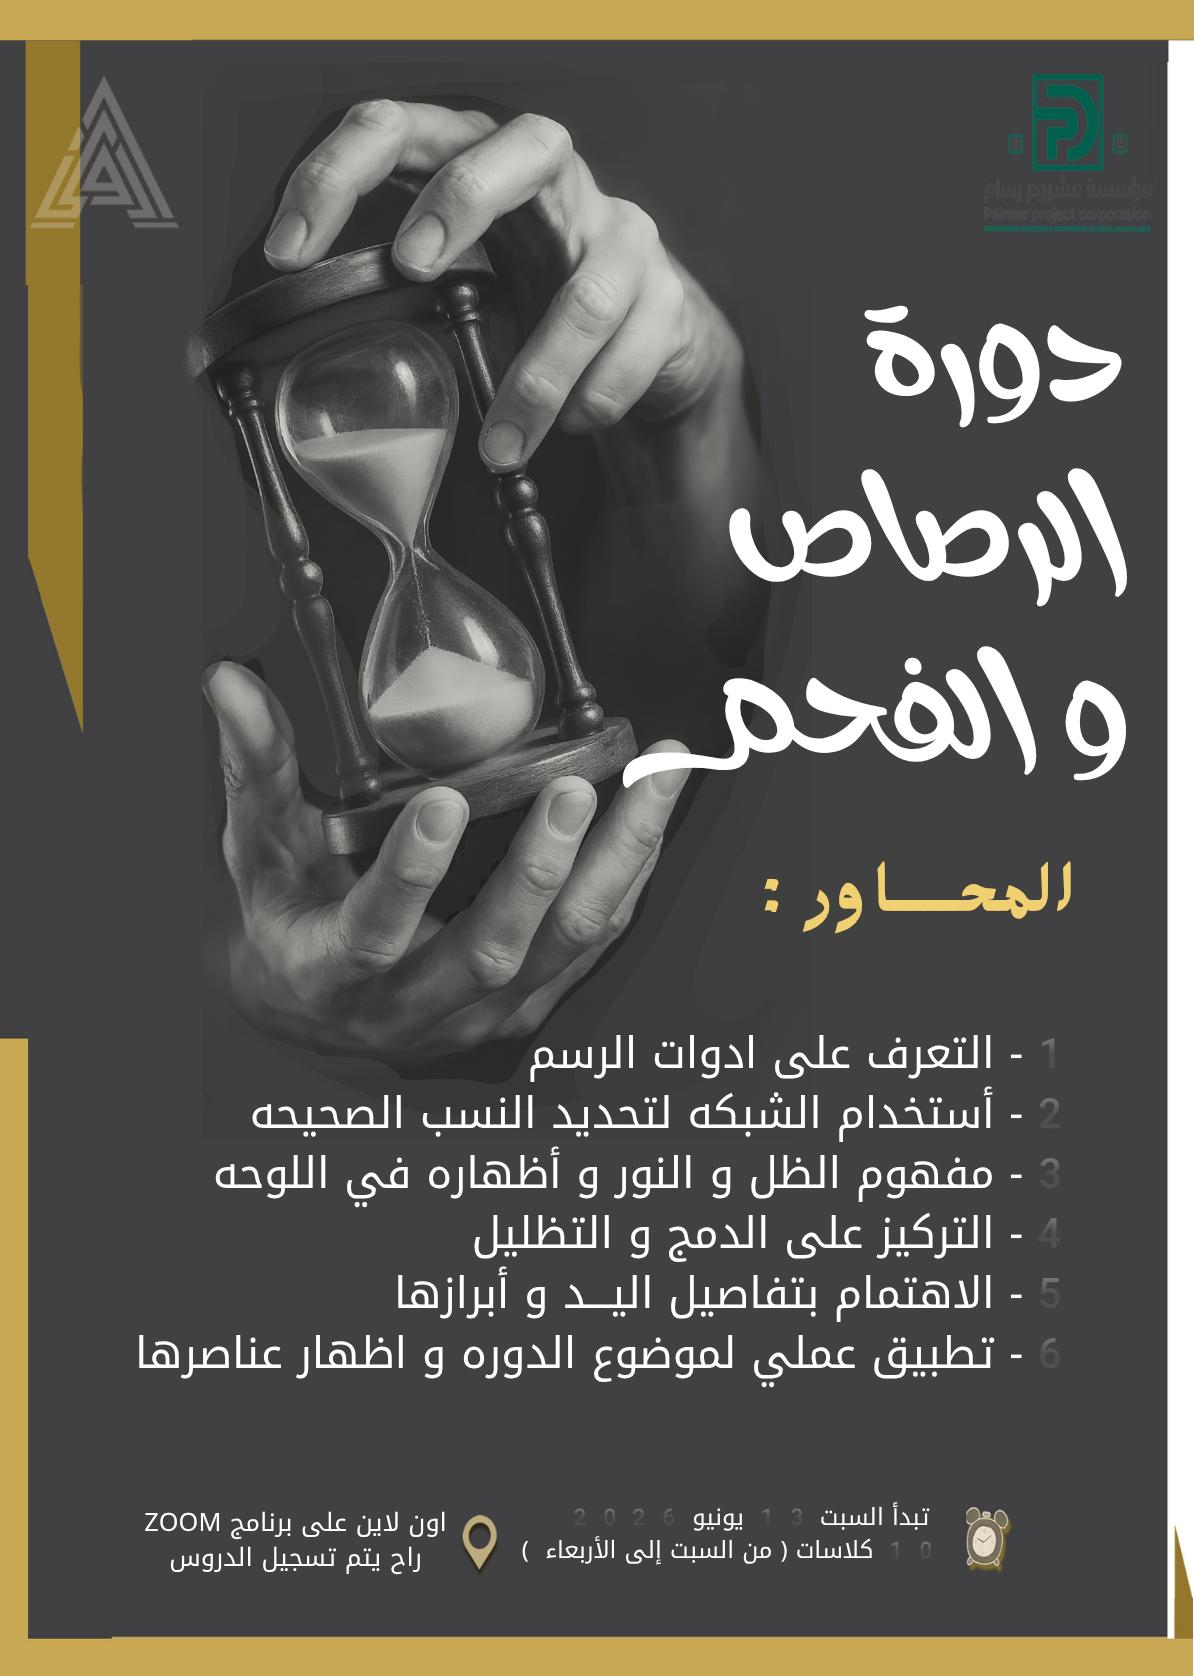
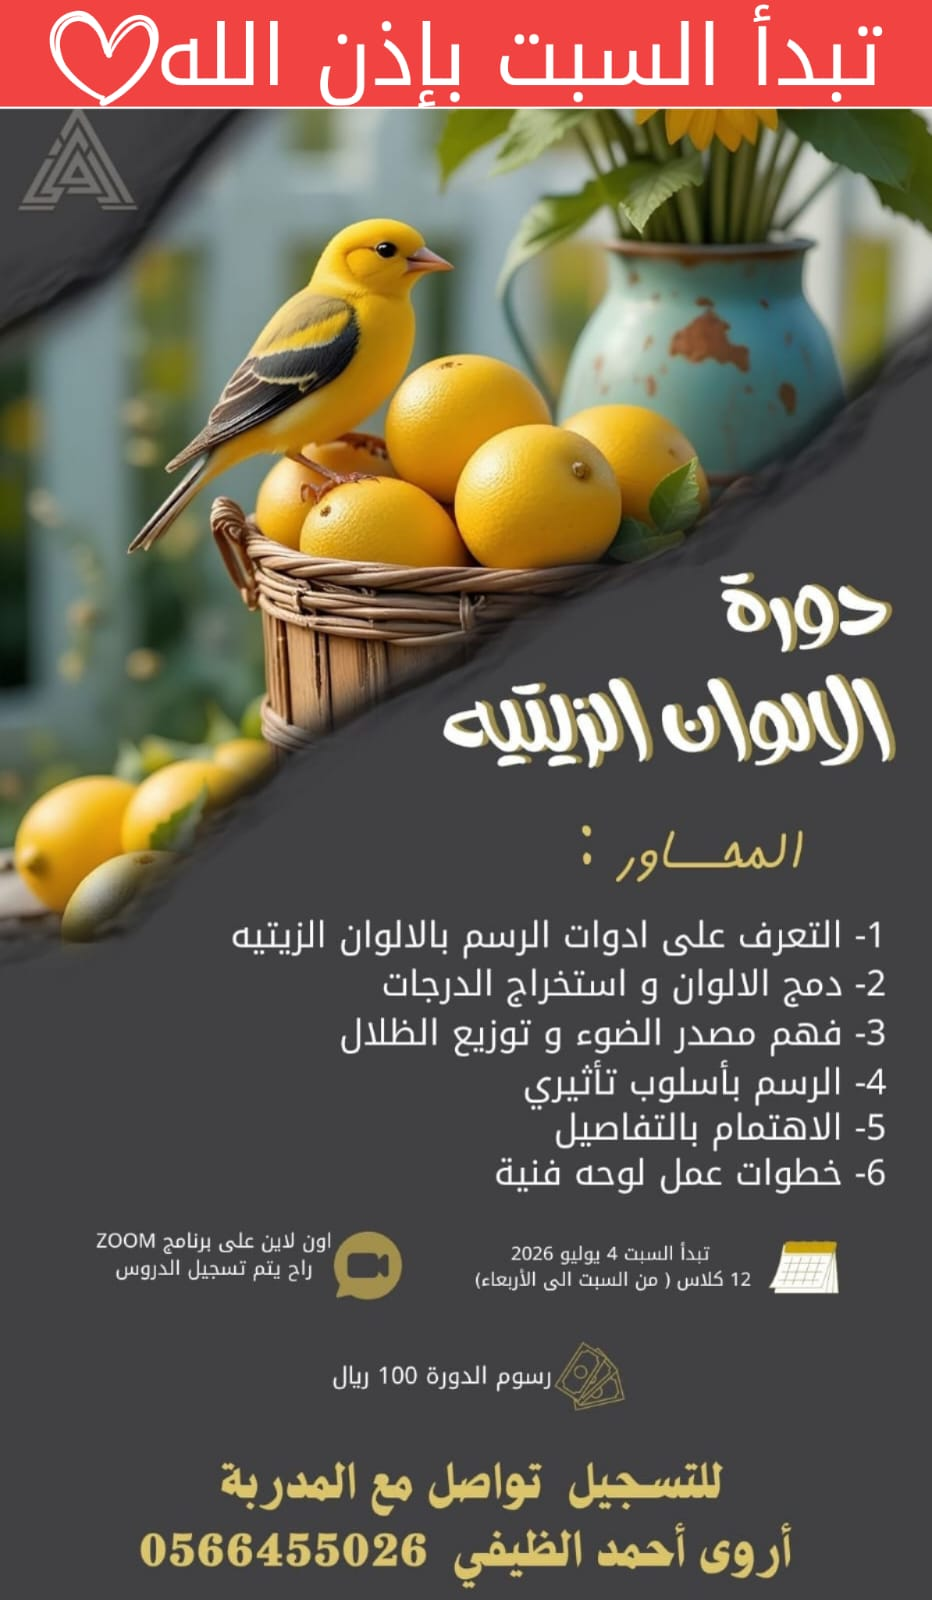
Uploade new painting and update the workshop pic

diff --git a/static/main.js b/static/main.js
@@ -44,7 +44,8 @@ const paintingGalleryItems = [
     fullSrc: "static/pic/painting-4.webp",
     srcset:
       "static/pic/painting-4-400.webp 400w, static/pic/painting-4.webp 600w",
-    fallbackSrc: "static/pic/WhatsApp%20Image%202026-06-06%20at%209.09.03%20AM.jpeg",
+    fallbackSrc:
+      "static/pic/WhatsApp%20Image%202026-06-06%20at%209.09.03%20AM.jpeg",
     alt: "لوحة فنية من أعمال أروى 4",
     width: 742,
     height: 1078,
@@ -160,6 +161,16 @@ const paintingGalleryItems = [
     height: 1280,
   },
   {
+    id: 16,
+    fullSrc: "static/pic/painting-16.webp",
+    srcset:
+      "static/pic/painting-16-400.webp 400w, static/pic/painting-16.webp 600w",
+    fallbackSrc: "static/pic/painting_%20(16).jpeg",
+    alt: "لوحة فنية من أعمال أروى 16",
+    width: 885,
+    height: 1280,
+  },
+  {
     id: "sold-1",
     fullSrc: "static/pic/painting-sold-1.webp",
     srcset:
@@ -221,6 +232,7 @@ const paintingGalleryOrder = [
   "sold-4",
   14,
   15,
+  16,
 ];
 
 function startCountUpAnimation() {
@@ -375,7 +387,7 @@ function startLazyVideoLoading() {
 }
 
 function DownTimeWarning() {
-  const targetDate = new Date("2026-06-12T15:00:00"); // YYYY-MM-DDTHH:MM:SS
+  const targetDate = new Date("2026-07-04T15:00:00"); // YYYY-MM-DDTHH:MM:SS
   const divCountdown = document.getElementById("div-countdown");
   const countdownEl = document.getElementById("countdown");
 
@@ -392,7 +404,7 @@ function DownTimeWarning() {
       clearInterval(interval);
       return;
     }
-                            // milliseconds to days, hours, minutes, seconds
+    // milliseconds to days, hours, minutes, seconds
     const days = Math.floor(distance / (1000 * 60 * 60 * 24));
     const hours = Math.floor(
       (distance % (1000 * 60 * 60 * 24)) / (1000 * 60 * 60),
@@ -409,10 +421,10 @@ function DownTimeWarning() {
 }
 
 function HideDownTimeWarning() {
-// Hide the countdown if the current date is past the target date
+  // Hide the countdown if the current date is past the target date
   // the date should be the same as the one in DownTimeWarning function
   // also the day should be two digits for consistency: "2026-06-02T15:00:00"  not like "2026-6-2T15:00:00"
-  if (new Date() >= new Date("2026-06-12T15:00:00")) { 
+  if (new Date() >= new Date("2026-07-04T15:00:00")) {
     document.getElementById("div-countdown").style.display = "none";
     document.getElementById("logo-hero").style.display = "block";
   }
